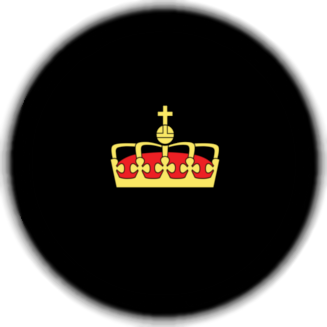
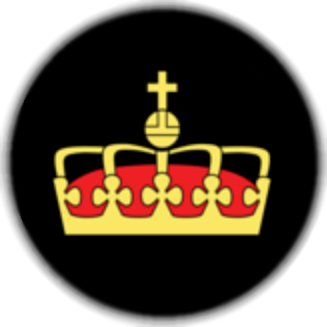
Game pieces now have proper size. Game window is now always fixed size

Changed region(s): [[0.1529, 0.2141, 0.8257, 0.7339]]

diff --git a/src/dam/graphics/GUIButton.java b/src/dam/graphics/GUIButton.java
@@ -25,7 +25,7 @@ public class GUIButton extends JButton {
         //this.AssociatedPiece = piece;
         position = pos;
         Owner = field;
-        drawField(field);
+        //drawField(field);
 
         lastClicked = new Point(-1, -1);
     }
@@ -71,17 +71,20 @@ public class GUIButton extends JButton {
     private void drawImage(String imageName) {
         // drawImage function which draws image on button depending on file name
 
-        int PREFFEREDSIZE = 65;// pixel width and height of a field
+        int PREFERRED_SIZE = (int) Math.floor(this.getWidth() * 0.9);// pixel width and height of a field
+
+        // debugging, remove later
+        //JOptionPane.showMessageDialog(null, "Width " + getWidth() + ", height " + getHeight(), "empty title", JOptionPane.INFORMATION_MESSAGE);
+
         try {
             Image img = ImageIO.read(getClass().getResource(imageName));
-            Image newImg = img.getScaledInstance(PREFFEREDSIZE , PREFFEREDSIZE, Image.SCALE_SMOOTH);
+            Image newImg = img.getScaledInstance(PREFERRED_SIZE, PREFERRED_SIZE, Image.SCALE_SMOOTH);
             ImageIcon image = new ImageIcon(newImg);
             this.setIcon(image);
         } catch (Exception e) {
             e.printStackTrace();
             this.setIcon(null);
         }
-
     }
 
 

diff --git a/src/dam/graphics/GUIBoard.java b/src/dam/graphics/GUIBoard.java
@@ -34,8 +34,14 @@ public class GUIBoard extends JPanel {
         super(new GridLayout(N, N));
         this.N = N;
         Logic = board;
-        // size of board is (N*SIZE)*(N*SIZE)
-        this.setPreferredSize(new Dimension(N*SIZE, N*SIZE));
+        // sets preferred size of game board
+        GraphicsDevice gd = GraphicsEnvironment.getLocalGraphicsEnvironment().getDefaultScreenDevice();
+        int maxWidth = gd.getDisplayMode().getWidth();
+        int maxHeight = gd.getDisplayMode().getHeight();
+
+        int maxSize = (int) Math.floor((maxHeight < maxWidth ? maxHeight : maxWidth) * 0.9);
+
+        this.setPreferredSize(new Dimension(maxSize, maxSize));
 
         // button array is 2d of length N and N
         buttonArray = new GUIButton[N][N];
@@ -98,6 +104,14 @@ public class GUIBoard extends JPanel {
                         buttonArray[xn][yn] = new GUIButton(N, FieldType.EMPTY, new Point(xn, yn));
                     }
                 }
+            }
+        }
+    }
+
+    public void paintBoard(){
+        for (int yn = 0; yn < N; yn++){
+            for (int xn = 0; xn < N; xn++){
+                buttonArray[xn][yn].drawField(buttonArray[xn][yn].getFieldType());
             }
         }
     }

diff --git a/src/dam/Control/ButtonListener.java b/src/dam/Control/ButtonListener.java
@@ -79,7 +79,7 @@ public class ButtonListener implements ActionListener {
                             graphics.getButtonArray()[(int)Board.getLastClickedGUIButton().getPosition().getX() + dirX][(int)Board.getLastClickedGUIButton().getPosition().getY() + dirY].drawField(GUIBoard.FieldType.EMPTY);
                         }
 
-                        if (Board.getNewClickedGUIButton().getPosition().getY() == Board.getNewClickedGUIButton().getN()){
+                        if (Board.getNewClickedGUIButton().getPosition().getY() == Board.getNewClickedGUIButton().getN()-1){
                             Board.getNewClickedGUIButton().setFieldType(PLAYER0_KING);
                         }
                         else if(Board.getNewClickedGUIButton().getPosition().getY() == 0) {

diff --git a/src/dam/Control/CheckersGame.java b/src/dam/Control/CheckersGame.java
@@ -8,6 +8,8 @@ import dam.graphics.GUIBoard;
 
 import javax.swing.*;
 import java.awt.*;
+import java.awt.event.ComponentAdapter;
+import java.awt.event.ComponentEvent;
 
 /**
  * Created by Emil Damsbo on 09-01-2017.
@@ -45,8 +47,11 @@ public class CheckersGame {
         f.setResizable(false);
 
         f.pack();
+        temp.paintBoard();
         f.setLocationRelativeTo(null);
         f.setVisible(true);
     }
+
+
 
 }
